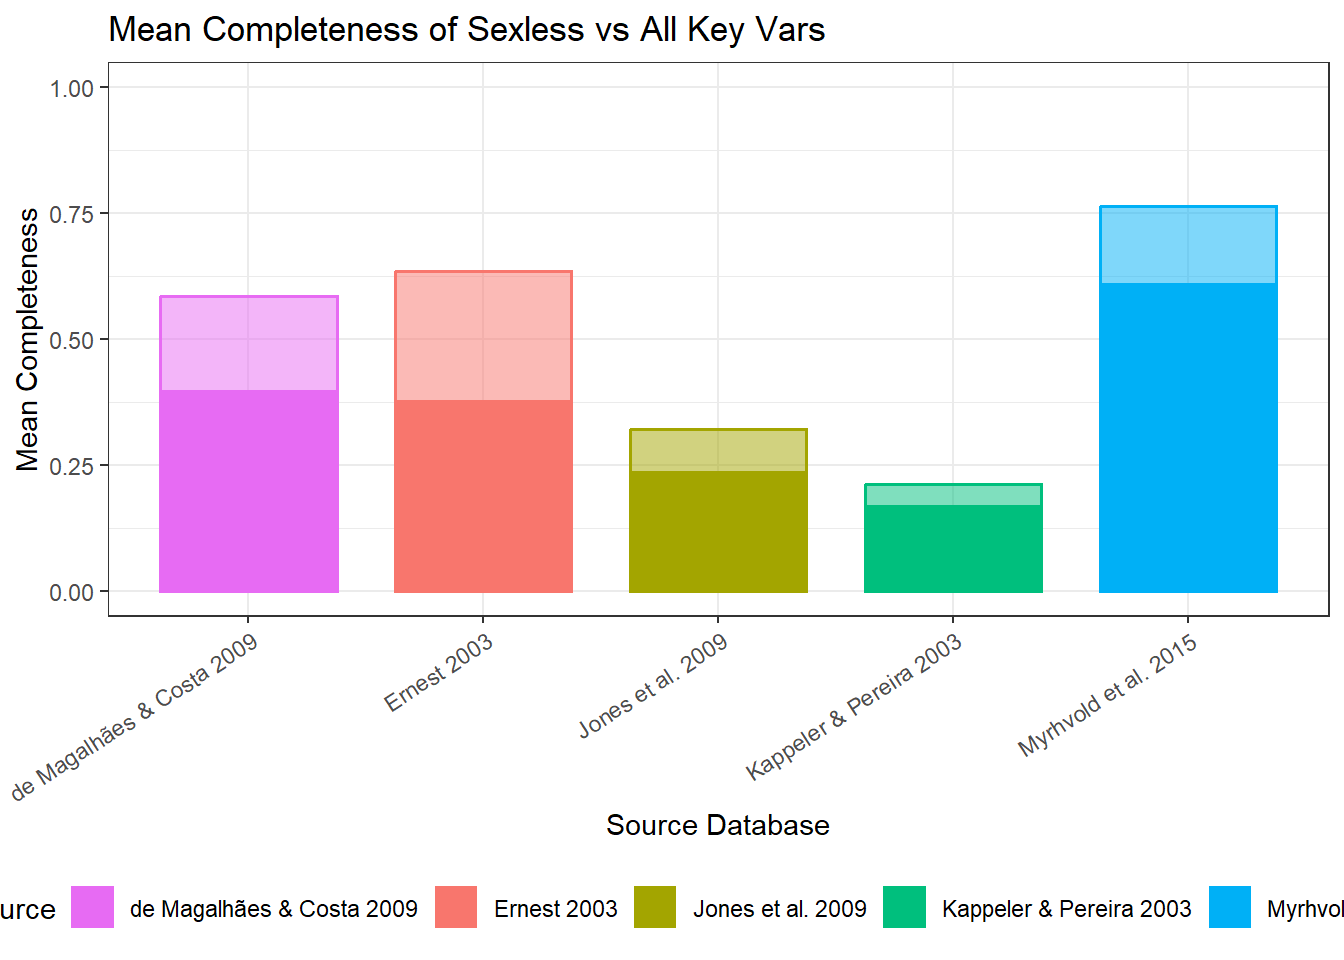
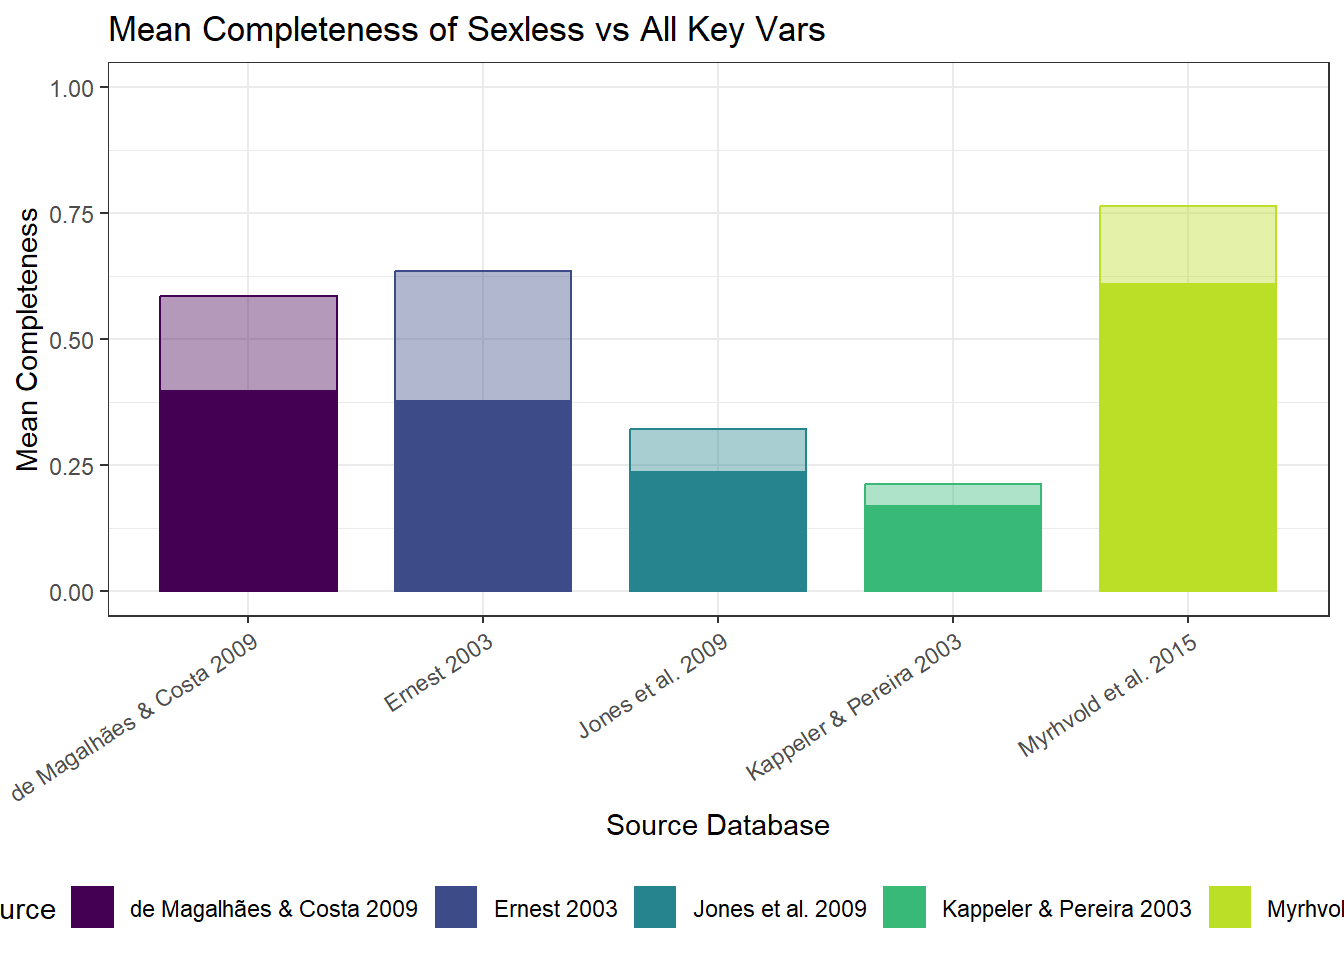
removed unused sections of code and modified bar chart for accessibility

diff --git a/Database-Analysis.html b/Database-Analysis.html
@@ -463,22 +463,7 @@ window.Quarto = {
 <span id="cb5-28"><a href="#cb5-28" aria-hidden="true" tabindex="-1"></a>  <span class="fu">inner_join</span>(mean_complete_no_sex, <span class="at">by =</span> <span class="st">"source"</span>) <span class="sc">%&gt;%</span> </span>
 <span id="cb5-29"><a href="#cb5-29" aria-hidden="true" tabindex="-1"></a>  <span class="fu">mutate</span>(</span>
 <span id="cb5-30"><a href="#cb5-30" aria-hidden="true" tabindex="-1"></a>    <span class="at">cap =</span> <span class="fu">pmax</span>(<span class="dv">0</span>, mean_completeness_no_sex <span class="sc">-</span> mean_completeness)</span>
-<span id="cb5-31"><a href="#cb5-31" aria-hidden="true" tabindex="-1"></a>  )</span>
-<span id="cb5-32"><a href="#cb5-32" aria-hidden="true" tabindex="-1"></a></span>
-<span id="cb5-33"><a href="#cb5-33" aria-hidden="true" tabindex="-1"></a>composite_plot <span class="ot">&lt;-</span> composite_completeness <span class="sc">%&gt;%</span> </span>
-<span id="cb5-34"><a href="#cb5-34" aria-hidden="true" tabindex="-1"></a>  <span class="fu">select</span>(source, mean_completeness, cap) <span class="sc">%&gt;%</span> </span>
-<span id="cb5-35"><a href="#cb5-35" aria-hidden="true" tabindex="-1"></a>  <span class="fu">pivot_longer</span>(</span>
-<span id="cb5-36"><a href="#cb5-36" aria-hidden="true" tabindex="-1"></a>    <span class="at">cols =</span> <span class="fu">c</span>(mean_completeness, cap),</span>
-<span id="cb5-37"><a href="#cb5-37" aria-hidden="true" tabindex="-1"></a>    <span class="at">names_to =</span> <span class="st">"segment"</span>,</span>
-<span id="cb5-38"><a href="#cb5-38" aria-hidden="true" tabindex="-1"></a>    <span class="at">values_to =</span> <span class="st">"value"</span></span>
-<span id="cb5-39"><a href="#cb5-39" aria-hidden="true" tabindex="-1"></a>  ) <span class="sc">%&gt;%</span> </span>
-<span id="cb5-40"><a href="#cb5-40" aria-hidden="true" tabindex="-1"></a>  <span class="fu">mutate</span>(</span>
-<span id="cb5-41"><a href="#cb5-41" aria-hidden="true" tabindex="-1"></a>    <span class="at">segment =</span> <span class="fu">recode</span>(segment,</span>
-<span id="cb5-42"><a href="#cb5-42" aria-hidden="true" tabindex="-1"></a>                     <span class="at">mean_completeness =</span> <span class="st">"All Key Vars"</span>,</span>
-<span id="cb5-43"><a href="#cb5-43" aria-hidden="true" tabindex="-1"></a>                     <span class="at">cap =</span> <span class="st">"Sexless Key Vars"</span></span>
-<span id="cb5-44"><a href="#cb5-44" aria-hidden="true" tabindex="-1"></a>                     ),</span>
-<span id="cb5-45"><a href="#cb5-45" aria-hidden="true" tabindex="-1"></a>    <span class="at">source =</span> <span class="fu">factor</span>(source, <span class="at">levels =</span> <span class="fu">unique</span>(source))</span>
-<span id="cb5-46"><a href="#cb5-46" aria-hidden="true" tabindex="-1"></a>  )</span></code><button title="Copy to Clipboard" class="code-copy-button"><i class="bi"></i></button></pre></div>
+<span id="cb5-31"><a href="#cb5-31" aria-hidden="true" tabindex="-1"></a>  )</span></code><button title="Copy to Clipboard" class="code-copy-button"><i class="bi"></i></button></pre></div>
 </details>
 </div>
 </section>
@@ -515,36 +500,31 @@ window.Quarto = {
 <div class="cell">
 <details class="code-fold">
 <summary>Code</summary>
-<div class="sourceCode cell-code" id="cb7"><pre class="sourceCode r code-with-copy"><code class="sourceCode r"><span id="cb7-1"><a href="#cb7-1" aria-hidden="true" tabindex="-1"></a><span class="co"># make a named palette once so fill &amp; color match perfectly</span></span>
-<span id="cb7-2"><a href="#cb7-2" aria-hidden="true" tabindex="-1"></a>src_levels <span class="ot">&lt;-</span> <span class="fu">levels</span>(composite_plot<span class="sc">$</span>source)</span>
-<span id="cb7-3"><a href="#cb7-3" aria-hidden="true" tabindex="-1"></a>src_pal <span class="ot">&lt;-</span> <span class="fu">setNames</span>(scales<span class="sc">::</span><span class="fu">hue_pal</span>()(<span class="fu">length</span>(src_levels)), src_levels)</span>
-<span id="cb7-4"><a href="#cb7-4" aria-hidden="true" tabindex="-1"></a></span>
-<span id="cb7-5"><a href="#cb7-5" aria-hidden="true" tabindex="-1"></a><span class="fu">ggplot</span>(composite_completeness, <span class="fu">aes</span>(<span class="at">x =</span> source)) <span class="sc">+</span></span>
-<span id="cb7-6"><a href="#cb7-6" aria-hidden="true" tabindex="-1"></a>  <span class="co"># draw Sexless first (white interior, colored outline)</span></span>
-<span id="cb7-7"><a href="#cb7-7" aria-hidden="true" tabindex="-1"></a>  <span class="fu">geom_col</span>(</span>
-<span id="cb7-8"><a href="#cb7-8" aria-hidden="true" tabindex="-1"></a>    <span class="fu">aes</span>(<span class="at">y =</span> mean_completeness_no_sex, <span class="at">fill =</span> source, <span class="at">color =</span> source),</span>
-<span id="cb7-9"><a href="#cb7-9" aria-hidden="true" tabindex="-1"></a>    <span class="at">alpha =</span> <span class="fl">0.5</span>,</span>
-<span id="cb7-10"><a href="#cb7-10" aria-hidden="true" tabindex="-1"></a>    <span class="at">width =</span> <span class="fl">0.75</span>,</span>
-<span id="cb7-11"><a href="#cb7-11" aria-hidden="true" tabindex="-1"></a>    <span class="at">linewidth =</span> <span class="fl">0.6</span>,</span>
-<span id="cb7-12"><a href="#cb7-12" aria-hidden="true" tabindex="-1"></a>    <span class="at">show.legend =</span> <span class="cn">FALSE</span></span>
-<span id="cb7-13"><a href="#cb7-13" aria-hidden="true" tabindex="-1"></a>  ) <span class="sc">+</span></span>
-<span id="cb7-14"><a href="#cb7-14" aria-hidden="true" tabindex="-1"></a>  <span class="fu">geom_col</span>(</span>
-<span id="cb7-15"><a href="#cb7-15" aria-hidden="true" tabindex="-1"></a>    <span class="fu">aes</span>(<span class="at">y =</span> mean_completeness, <span class="at">fill =</span> source),</span>
-<span id="cb7-16"><a href="#cb7-16" aria-hidden="true" tabindex="-1"></a>    <span class="at">width =</span> <span class="fl">0.75</span></span>
-<span id="cb7-17"><a href="#cb7-17" aria-hidden="true" tabindex="-1"></a>  ) <span class="sc">+</span></span>
-<span id="cb7-18"><a href="#cb7-18" aria-hidden="true" tabindex="-1"></a>  <span class="fu">coord_cartesian</span>(<span class="at">ylim =</span> <span class="fu">c</span>(<span class="dv">0</span>, <span class="dv">1</span>)) <span class="sc">+</span></span>
-<span id="cb7-19"><a href="#cb7-19" aria-hidden="true" tabindex="-1"></a>  <span class="fu">scale_fill_manual</span>(<span class="at">values =</span> src_pal) <span class="sc">+</span></span>
-<span id="cb7-20"><a href="#cb7-20" aria-hidden="true" tabindex="-1"></a>  <span class="fu">scale_color_manual</span>(<span class="at">values =</span> src_pal, <span class="at">guide =</span> <span class="st">"none"</span>) <span class="sc">+</span></span>
-<span id="cb7-21"><a href="#cb7-21" aria-hidden="true" tabindex="-1"></a>  <span class="fu">labs</span>(</span>
-<span id="cb7-22"><a href="#cb7-22" aria-hidden="true" tabindex="-1"></a>    <span class="at">x =</span> <span class="st">"Source Database"</span>,</span>
-<span id="cb7-23"><a href="#cb7-23" aria-hidden="true" tabindex="-1"></a>    <span class="at">y =</span> <span class="st">"Mean Completeness"</span>,</span>
-<span id="cb7-24"><a href="#cb7-24" aria-hidden="true" tabindex="-1"></a>    <span class="at">title =</span> <span class="st">"Mean Completeness of Sexless vs All Key Vars"</span></span>
-<span id="cb7-25"><a href="#cb7-25" aria-hidden="true" tabindex="-1"></a>  ) <span class="sc">+</span></span>
-<span id="cb7-26"><a href="#cb7-26" aria-hidden="true" tabindex="-1"></a>  <span class="fu">theme_bw</span>() <span class="sc">+</span></span>
-<span id="cb7-27"><a href="#cb7-27" aria-hidden="true" tabindex="-1"></a>  <span class="fu">theme</span>(</span>
-<span id="cb7-28"><a href="#cb7-28" aria-hidden="true" tabindex="-1"></a>    <span class="at">legend.position =</span> <span class="st">"bottom"</span>,</span>
-<span id="cb7-29"><a href="#cb7-29" aria-hidden="true" tabindex="-1"></a>    <span class="at">axis.text.x =</span> <span class="fu">element_text</span>(<span class="at">angle =</span> <span class="dv">33</span>, <span class="at">hjust =</span> <span class="dv">1</span>)</span>
-<span id="cb7-30"><a href="#cb7-30" aria-hidden="true" tabindex="-1"></a>  )</span></code><button title="Copy to Clipboard" class="code-copy-button"><i class="bi"></i></button></pre></div>
+<div class="sourceCode cell-code" id="cb7"><pre class="sourceCode r code-with-copy"><code class="sourceCode r"><span id="cb7-1"><a href="#cb7-1" aria-hidden="true" tabindex="-1"></a><span class="fu">ggplot</span>(composite_completeness, <span class="fu">aes</span>(<span class="at">x =</span> source)) <span class="sc">+</span></span>
+<span id="cb7-2"><a href="#cb7-2" aria-hidden="true" tabindex="-1"></a>  <span class="fu">geom_col</span>(</span>
+<span id="cb7-3"><a href="#cb7-3" aria-hidden="true" tabindex="-1"></a>    <span class="fu">aes</span>(<span class="at">y =</span> mean_completeness_no_sex, <span class="at">fill =</span> source, <span class="at">color =</span> source),</span>
+<span id="cb7-4"><a href="#cb7-4" aria-hidden="true" tabindex="-1"></a>    <span class="at">alpha =</span> <span class="fl">0.4</span>,</span>
+<span id="cb7-5"><a href="#cb7-5" aria-hidden="true" tabindex="-1"></a>    <span class="at">width =</span> <span class="fl">0.75</span>,</span>
+<span id="cb7-6"><a href="#cb7-6" aria-hidden="true" tabindex="-1"></a>    <span class="at">linewidth =</span> <span class="fl">0.5</span>,</span>
+<span id="cb7-7"><a href="#cb7-7" aria-hidden="true" tabindex="-1"></a>    <span class="at">show.legend =</span> <span class="cn">FALSE</span></span>
+<span id="cb7-8"><a href="#cb7-8" aria-hidden="true" tabindex="-1"></a>  ) <span class="sc">+</span></span>
+<span id="cb7-9"><a href="#cb7-9" aria-hidden="true" tabindex="-1"></a>  <span class="fu">geom_col</span>(</span>
+<span id="cb7-10"><a href="#cb7-10" aria-hidden="true" tabindex="-1"></a>    <span class="fu">aes</span>(<span class="at">y =</span> mean_completeness, <span class="at">fill =</span> source),</span>
+<span id="cb7-11"><a href="#cb7-11" aria-hidden="true" tabindex="-1"></a>    <span class="at">width =</span> <span class="fl">0.75</span></span>
+<span id="cb7-12"><a href="#cb7-12" aria-hidden="true" tabindex="-1"></a>  ) <span class="sc">+</span></span>
+<span id="cb7-13"><a href="#cb7-13" aria-hidden="true" tabindex="-1"></a>  <span class="fu">coord_cartesian</span>(<span class="at">ylim =</span> <span class="fu">c</span>(<span class="dv">0</span>, <span class="dv">1</span>)) <span class="sc">+</span></span>
+<span id="cb7-14"><a href="#cb7-14" aria-hidden="true" tabindex="-1"></a>  <span class="fu">scale_fill_viridis_d</span>(<span class="at">option =</span> <span class="st">"D"</span>, <span class="at">end =</span> <span class="fl">0.9</span>) <span class="sc">+</span></span>
+<span id="cb7-15"><a href="#cb7-15" aria-hidden="true" tabindex="-1"></a>  <span class="fu">scale_color_viridis_d</span>(<span class="at">option =</span> <span class="st">"D"</span>, <span class="at">end =</span> <span class="fl">0.9</span>, <span class="at">guide =</span> <span class="st">"none"</span>) <span class="sc">+</span></span>
+<span id="cb7-16"><a href="#cb7-16" aria-hidden="true" tabindex="-1"></a>  <span class="fu">labs</span>(</span>
+<span id="cb7-17"><a href="#cb7-17" aria-hidden="true" tabindex="-1"></a>    <span class="at">x =</span> <span class="st">"Source Database"</span>,</span>
+<span id="cb7-18"><a href="#cb7-18" aria-hidden="true" tabindex="-1"></a>    <span class="at">y =</span> <span class="st">"Mean Completeness"</span>,</span>
+<span id="cb7-19"><a href="#cb7-19" aria-hidden="true" tabindex="-1"></a>    <span class="at">title =</span> <span class="st">"Mean Completeness of Sexless vs All Key Vars"</span></span>
+<span id="cb7-20"><a href="#cb7-20" aria-hidden="true" tabindex="-1"></a>  ) <span class="sc">+</span></span>
+<span id="cb7-21"><a href="#cb7-21" aria-hidden="true" tabindex="-1"></a>  <span class="fu">theme_bw</span>() <span class="sc">+</span></span>
+<span id="cb7-22"><a href="#cb7-22" aria-hidden="true" tabindex="-1"></a>  <span class="fu">theme</span>(</span>
+<span id="cb7-23"><a href="#cb7-23" aria-hidden="true" tabindex="-1"></a>    <span class="at">legend.position =</span> <span class="st">"bottom"</span>,</span>
+<span id="cb7-24"><a href="#cb7-24" aria-hidden="true" tabindex="-1"></a>    <span class="at">axis.text.x =</span> <span class="fu">element_text</span>(<span class="at">angle =</span> <span class="dv">33</span>, <span class="at">hjust =</span> <span class="dv">1</span>)</span>
+<span id="cb7-25"><a href="#cb7-25" aria-hidden="true" tabindex="-1"></a>  )</span></code><button title="Copy to Clipboard" class="code-copy-button"><i class="bi"></i></button></pre></div>
 </details>
 <div class="cell-output-display">
 <div>
